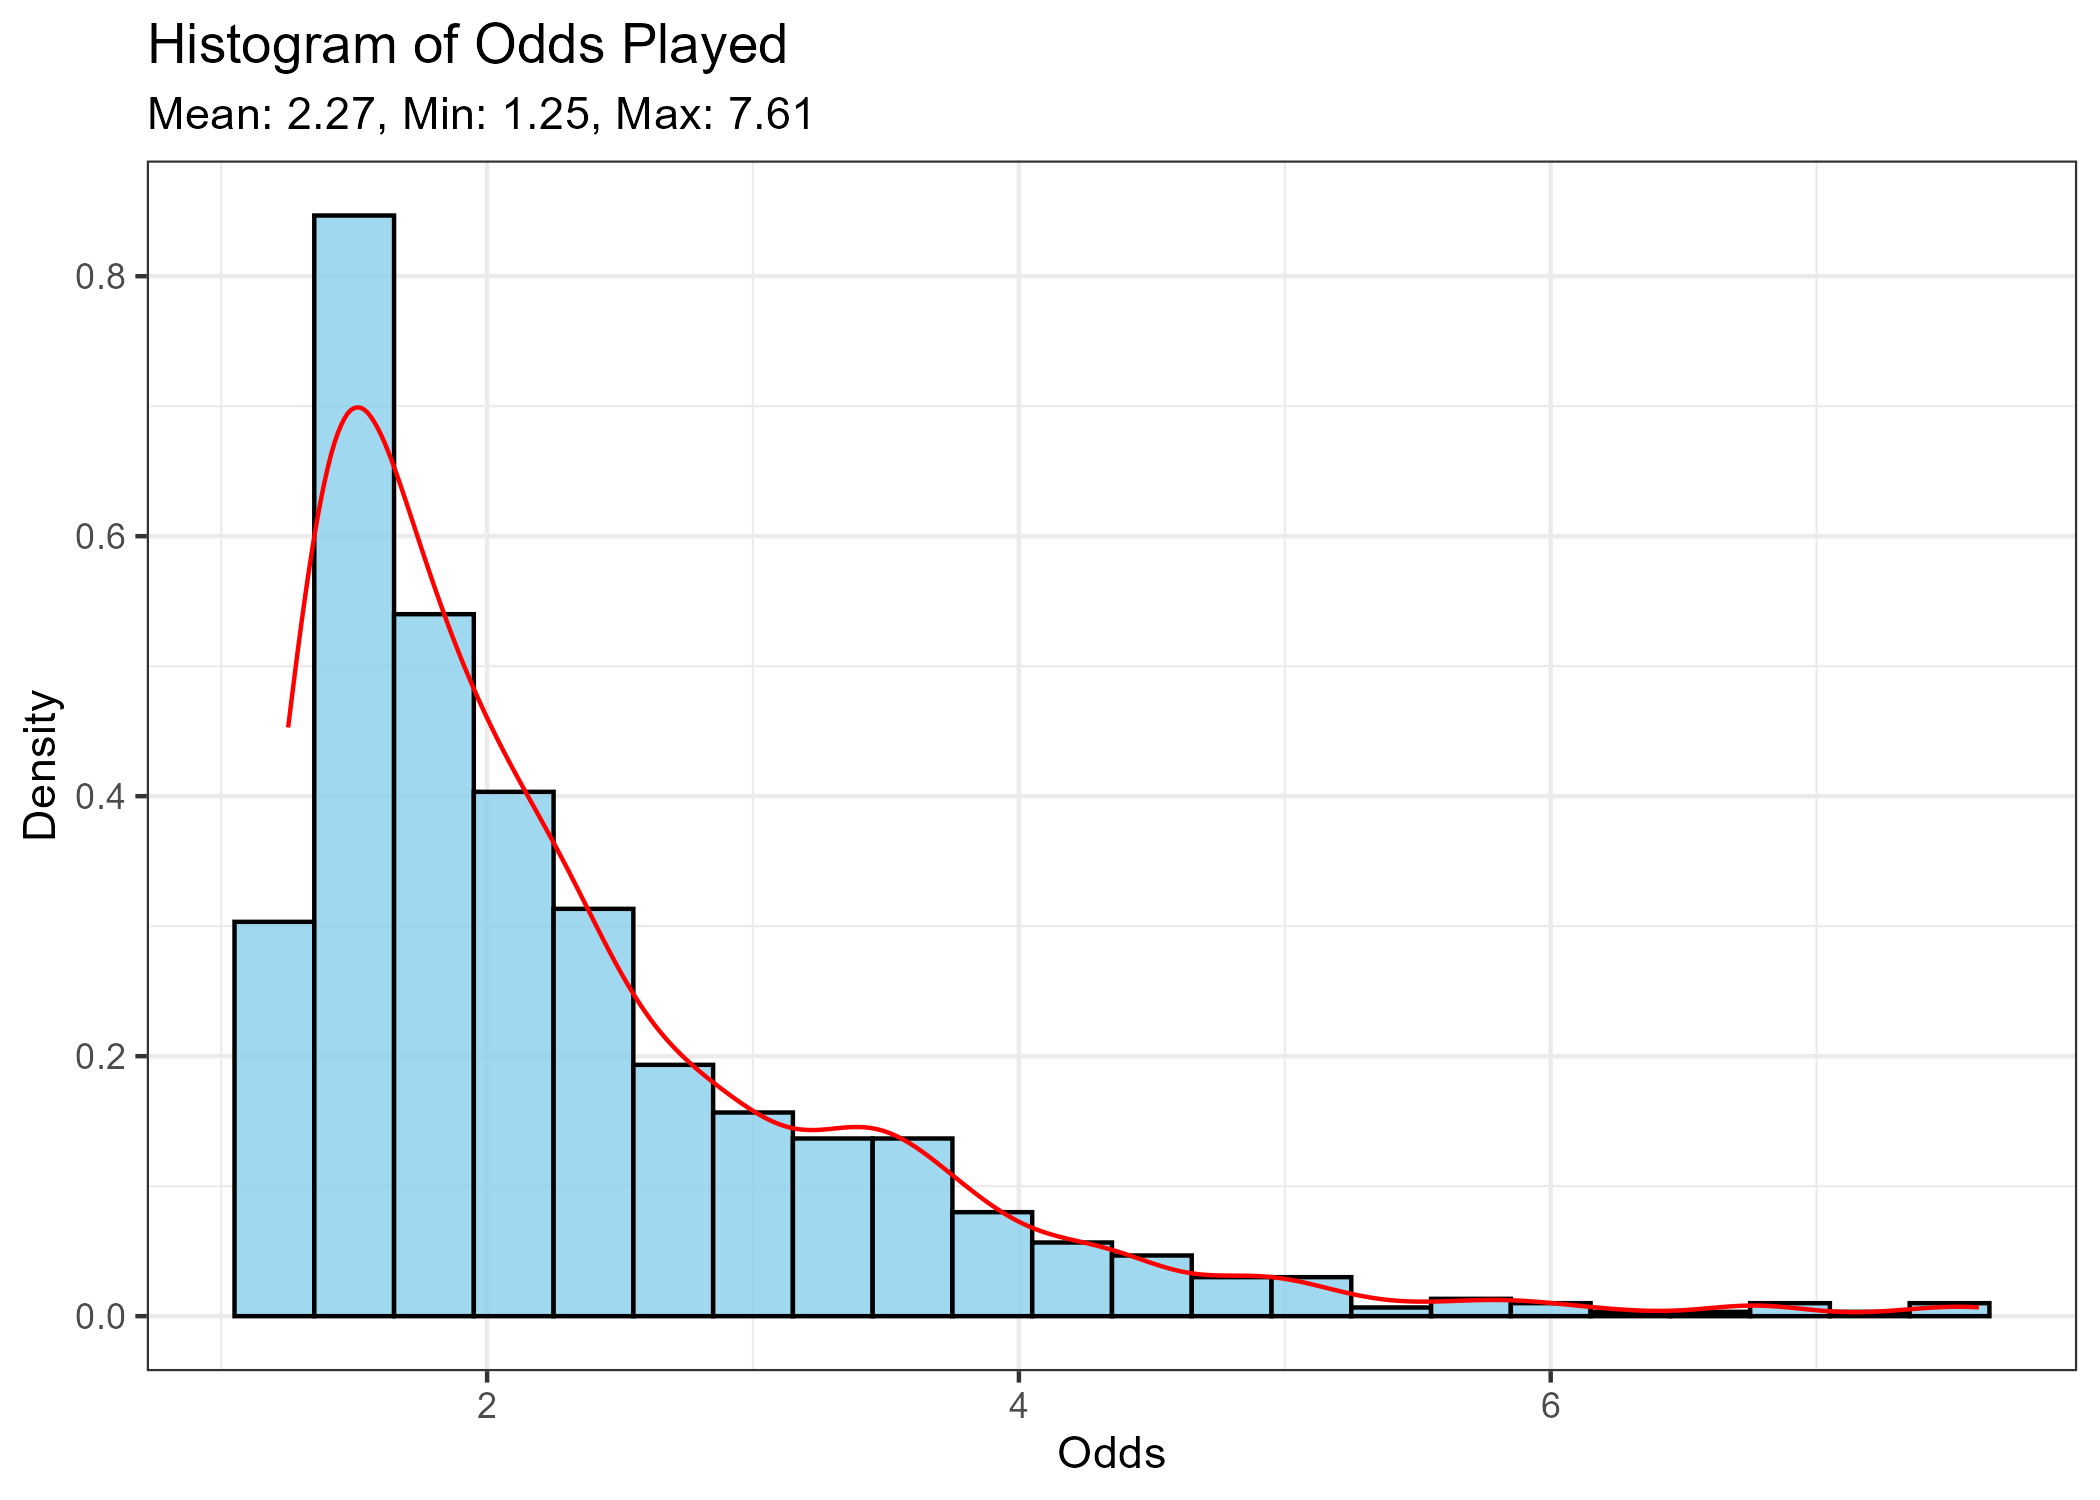
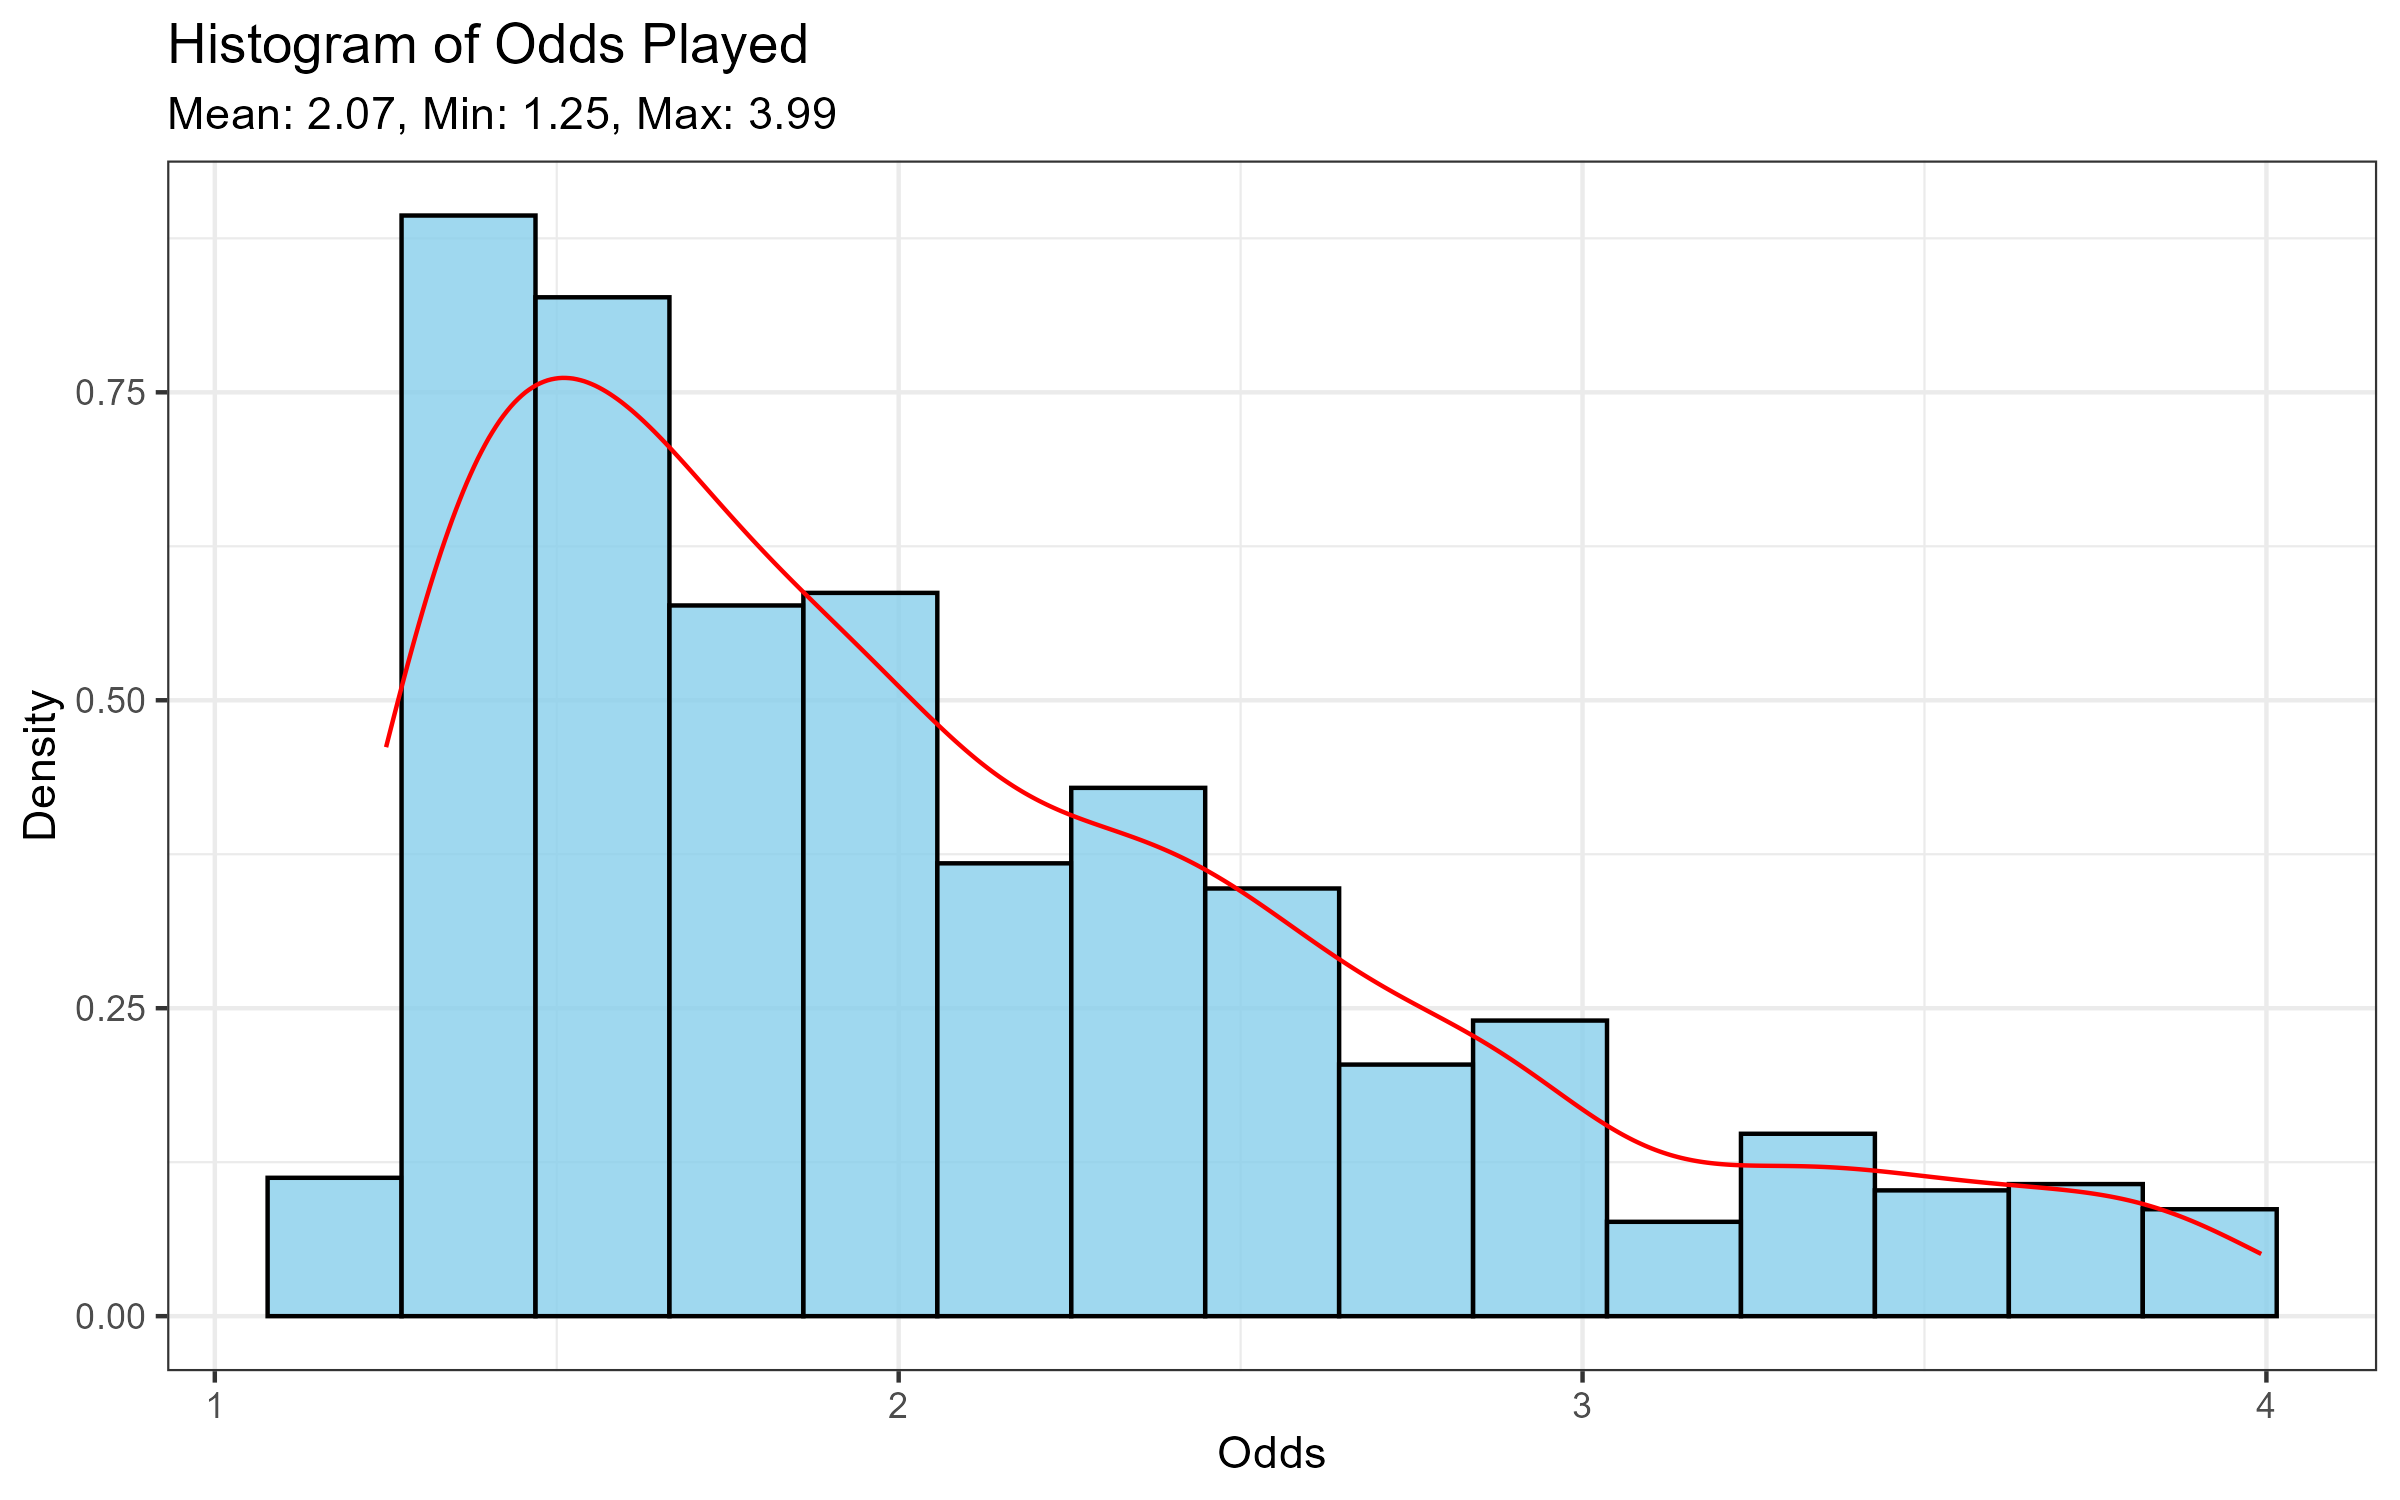
Added arguments to sim_bets()

diff --git a/README.md b/README.md
@@ -56,7 +56,7 @@ library(betRBall)
 # - 1000 bets
 # - 500 simulations
 # - 5% edge 
-result <- sim_bets(n_bets = 1000, n_sim = 500, edge = 1.05)
+result <- sim_bets(n_bets = 1000, n_sim = 250, edge = 1.05, max_odds = 4)
 
 # Plot the cumulative profit across all simulations
 result[["profit_plot"]]
